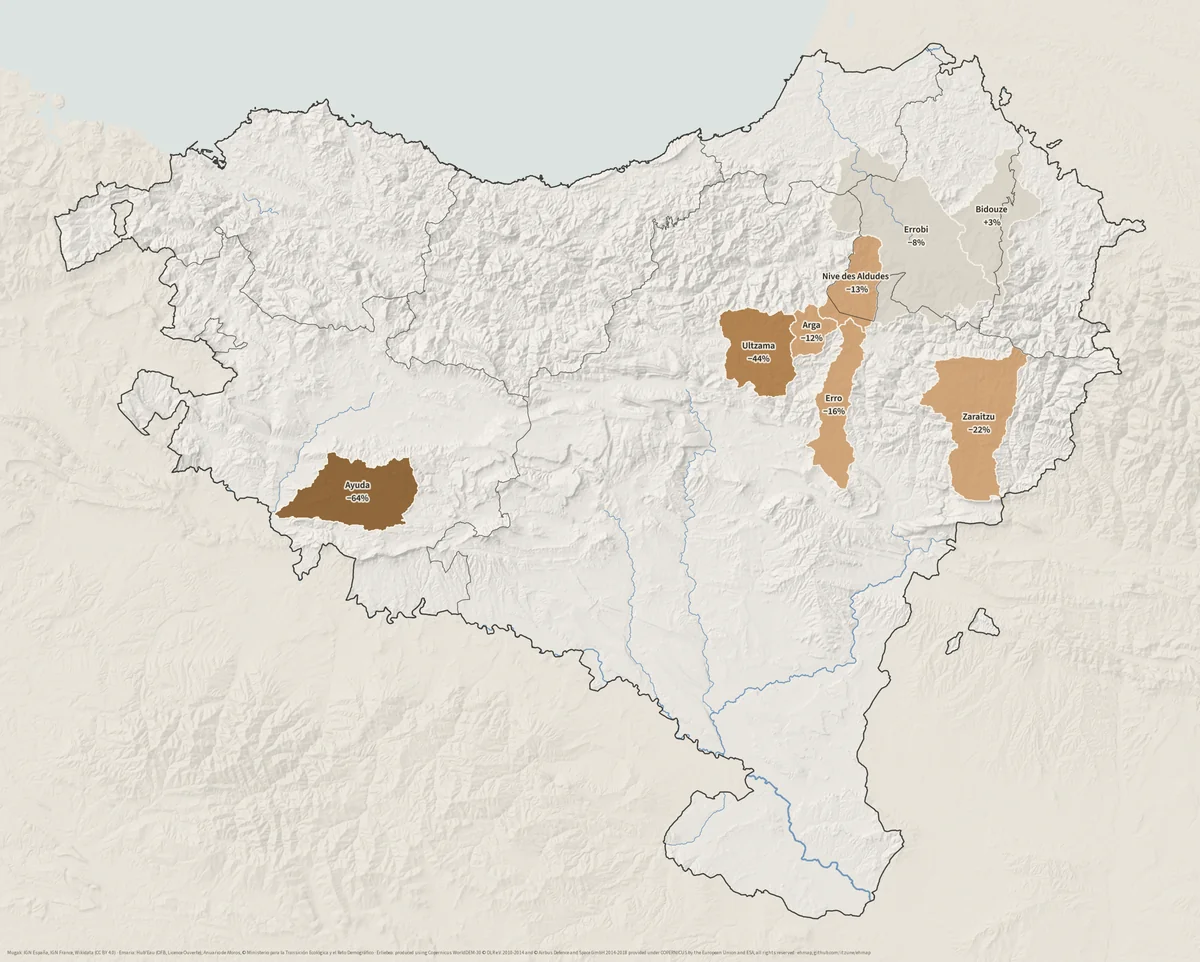
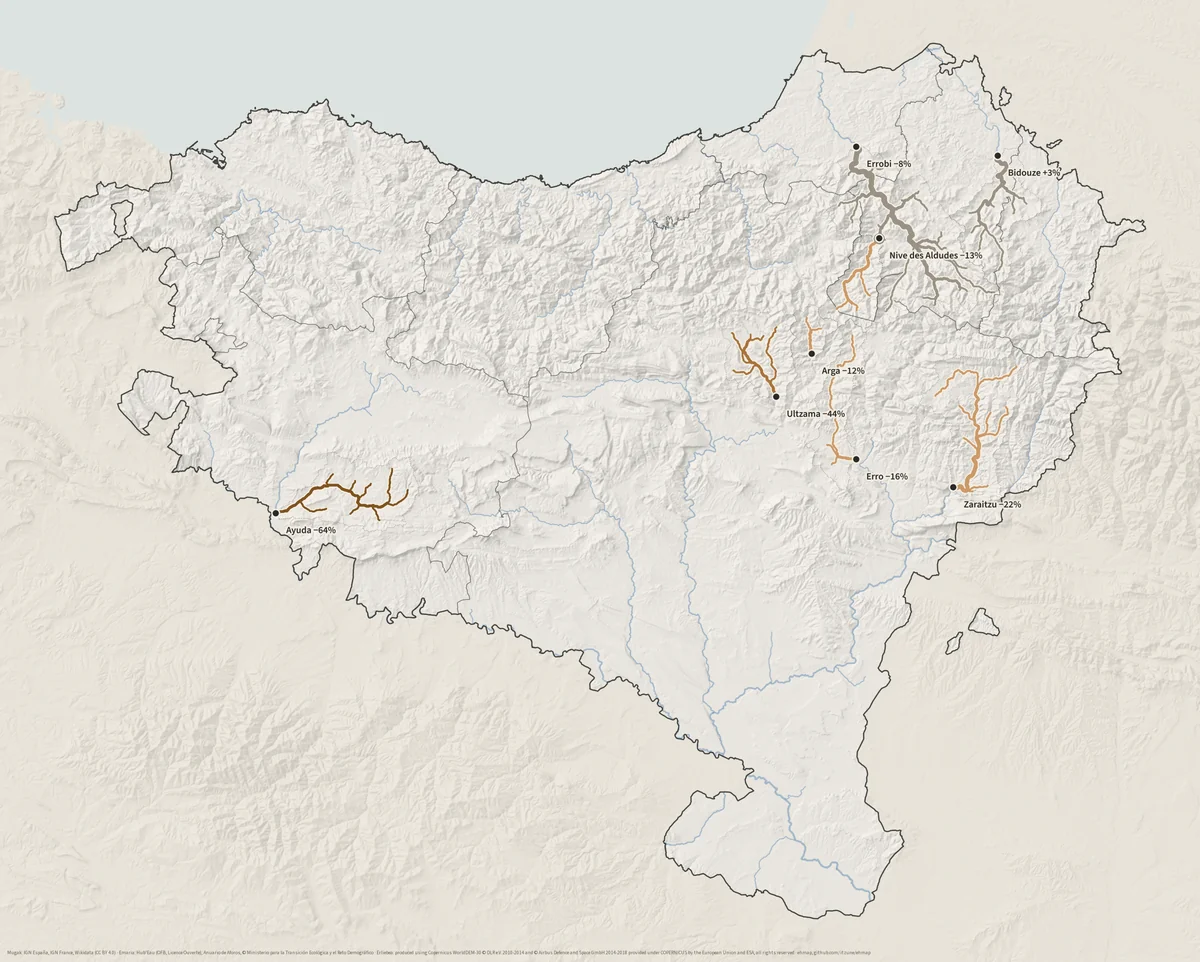
Site: river map shows the rivers, coloured by the change of their summer flow

Changed region(s): [[0.5858, 0.1559, 0.8633, 0.499], [0.7708, 0.343, 0.8633, 0.5301], [0.2158, 0.4678, 0.37, 0.5613]]

diff --git a/site/index.html b/site/index.html
@@ -323,9 +323,9 @@
         <button type="button" data-full="maps/ibaiak-emaria.webp" aria-label="Mapa handitu: ibaien uda-emaria">
           <img src="maps/ibaiak-emaria-1200.webp" srcset="maps/ibaiak-emaria-1200.webp 1200w, maps/ibaiak-emaria.webp 2400w"
                sizes="(min-width: 60rem) 62vw, 100vw" width="1200" height="962" loading="lazy"
-               alt="Ibaien arroen mapa, udako emariaren aldaketarekin: Errobi eta Bidouze ia aldaketarik gabe; Ultzama −%44 eta Ayuda −%64, Ebro aldean.">
+               alt="Ibaien mapa, udako emariaren aldaketarekin: Errobi eta Bidouze ia aldaketarik gabe, grisez; Ebro aldean marroiz, Ultzama −%44 eta Ayuda −%64.">
         </button>
-        <figcaption>Gizakiak gutxi aldatutako arroak. Emaria: Hub'Eau (OFB, Licence Ouverte); Anuario de Aforos,
+        <figcaption>Ibaiak, gizakiak gutxi aldatutako arroetan; puntua, aforo-estazioa. Emaria: Hub'Eau (OFB, Licence Ouverte); Anuario de Aforos,
           © Ministerio para la Transición Ecológica y el Reto Demográfico.</figcaption>
       </figure>
       <div class="text">
@@ -337,10 +337,10 @@
           <div><b>−%58</b><span>Ebro aldeko arroetan, 2016–2022an</span></div>
         </div>
         <ul class="legend">
-          <li><span class="sw" style="background:#D8D2C6"></span>aldaketa txikia (±%10)</li>
-          <li><span class="sw" style="background:#CC9967"></span>−%10 eta −%25 artean</li>
-          <li><span class="sw" style="background:#A9733A"></span>−%25 eta −%50 artean</li>
-          <li><span class="sw" style="background:#80521F"></span>−%50 baino gehiago</li>
+          <li><span class="sw river-c" style="--c:#9A9284"></span>aldaketa txikia (±%10)</li>
+          <li><span class="sw river-c" style="--c:#CC9967"></span>−%10 eta −%25 artean</li>
+          <li><span class="sw river-c" style="--c:#A9733A"></span>−%25 eta −%50 artean</li>
+          <li><span class="sw river-c" style="--c:#80521F"></span>−%50 baino gehiago</li>
         </ul>
         <p class="note">Uztaila–iraileko batez besteko emaria. Beroak ur gehiago lurruntzen du, baina ez da
           arrazoi bakarra: baso gehiago dago lehengo larre eta soroetan, eta ur-hartuneak ere badira.</p>

diff --git a/site/style.css b/site/style.css
@@ -243,6 +243,7 @@ h2 {
 .stripes-chart .axis .ref { top: 1.45rem; transform: none; border-top: 1px solid var(--muted); padding-top: 0.15rem; text-align: center; }
 .stripes-chart .cursor { position: absolute; top: 0; width: 2px; margin-left: -1px; background: var(--ink); pointer-events: none; opacity: 0; }
 .stripes-chart:hover .cursor { opacity: 0.85; }
+.sw.river-c { height: 0; box-shadow: none; border-top: 4px solid var(--c); border-radius: 2px; }
 .felt, .duo { margin-top: clamp(3rem, 6vw, 5rem); }
 .felt h3, .duo h3 { font: 500 var(--step-1)/1.15 var(--serif); margin: 0 0 0.6rem; }
 .felt > p { color: var(--ink-2); margin: 0; }

diff --git a/scripts/07_site_maps.py b/scripts/07_site_maps.py
@@ -359,26 +359,40 @@ FLOW_BINS = [-50, -25, -10]   # % change of the July-September flow; above −10
 
 
 def map_flow(b: Base):
-    """The catchments of the near-natural gauges, coloured by the change of their summer flow."""
+    """The rivers above the near-natural gauges, coloured by the change of their summer flow."""
     fig, ax = b.figure()
     card = np.broadcast_to(np.array(to_rgb(PAL["card"])), b.dem.shape + (3,))
     b.background(ax, card, relief=0.75)
+    streams = gpd.read_file(DIST / "elevation" / "streams_dem.gpkg").to_crs(CRS)
+    widths = {1: 1.3, 2: 2.0, 3: 2.8, 4: 3.6, 5: 4.4, 6: 5.2}
+    # all other rivers, quietly
+    for order in (3, 4, 5, 6):
+        streams[streams.strahler == order].plot(ax=ax, color=PAL["water"], linewidth=widths[order] * 0.25,
+                                                 alpha=0.35, zorder=3)
     sheds = gpd.read_file(DIST / "rivers" / "river_gauges.gpkg", layer="catchments").to_crs(CRS)
     sheds = sheds[sheds.core.astype(bool)]
-    colors = [PAL["dry"][2], PAL["dry"][1], PAL["dry"][0], PAL["neutral"]]   # most loss first
-    sheds["color"] = [colors[int(np.digitize(v, FLOW_BINS))] for v in sheds.jas_change_1991_2020_pct]
-    sheds.plot(ax=ax, color=sheds.color, alpha=0.85, linewidth=0, zorder=2)
-    sheds.boundary.plot(ax=ax, color=PAL["paper"], linewidth=0.8, zorder=3)
-    streams = gpd.read_file(DIST / "elevation" / "streams_dem.gpkg").to_crs(CRS)
-    for order, w in ((4, 0.5), (5, 0.8), (6, 1.2)):
-        streams[streams.strahler == order].plot(ax=ax, color=PAL["water"], linewidth=w, alpha=0.6, zorder=4)
-    b.ter.boundary.plot(ax=ax, color=PAL["ink"], linewidth=0.5, alpha=0.45, zorder=5)
-    b.outline.boundary.plot(ax=ax, color=PAL["ink"], linewidth=0.9, alpha=0.8, zorder=5)
+    gauges = gpd.read_file(DIST / "rivers" / "river_gauges.gpkg", layer="river_gauges").to_crs(CRS).set_index("key")
+    # most loss first; "little change" is a darker grey than the palette's neutral, as thin lines
+    # in the neutral would vanish into the relief
+    colors = [PAL["dry"][2], PAL["dry"][1], PAL["dry"][0], "#9A9284"]
+    sheds.boundary.plot(ax=ax, color=PAL["ink"], linewidth=0.4, alpha=0.3, linestyle=(0, (2, 2)), zorder=4)
+    b.ter.boundary.plot(ax=ax, color=PAL["ink"], linewidth=0.5, alpha=0.35, zorder=4)
+    b.outline.boundary.plot(ax=ax, color=PAL["ink"], linewidth=0.9, alpha=0.8, zorder=4)
     for r in sheds.itertuples():
-        p = r.geometry.representative_point()
-        ax.text(p.x, p.y, f"{r.river.split(' / ')[0]}\n{r.jas_change_1991_2020_pct:+.0f}%".replace("-", "−"),
-                ha="center", va="center", fontsize=6.6, fontfamily=b.fonts["sans-semi"], color=PAL["ink"],
-                path_effects=b.halo(2.4), zorder=9)
+        c = colors[int(np.digitize(r.jas_change_1991_2020_pct, FLOW_BINS))]
+        mine = streams[streams.intersects(r.geometry)].copy()
+        mine["geometry"] = mine.intersection(r.geometry)
+        for order, w in widths.items():
+            sel = mine[mine.strahler == order]
+            if len(sel):
+                # a paper casing under the colour keeps light colours readable on the relief
+                sel.plot(ax=ax, color=PAL["paper"], linewidth=w + 1.6, zorder=5)
+                sel.plot(ax=ax, color=c, linewidth=w, zorder=6, capstyle="round")
+        g = gauges.loc[r.key].geometry
+        ax.plot(g.x, g.y, marker="o", ms=5.5, color=PAL["ink"], mec=PAL["paper"], mew=1, zorder=8)
+        label = f"{r.river.split(' / ')[0]} {r.jas_change_1991_2020_pct:+.0f}%".replace("-", "−")
+        ax.text(g.x + 2200, g.y - 2200, label, fontsize=6.8, fontfamily=b.fonts["sans-semi"], color=PAL["ink"],
+                va="top", path_effects=b.halo(2.4), zorder=9)
     b.save(fig, "ibaiak-emaria", f"{BOUNDS_CREDIT} · Emaria: Hub'Eau (OFB, Licence Ouverte); "
            "Anuario de Aforos, © Ministerio para la Transición Ecológica y el Reto Demográfico")
 
